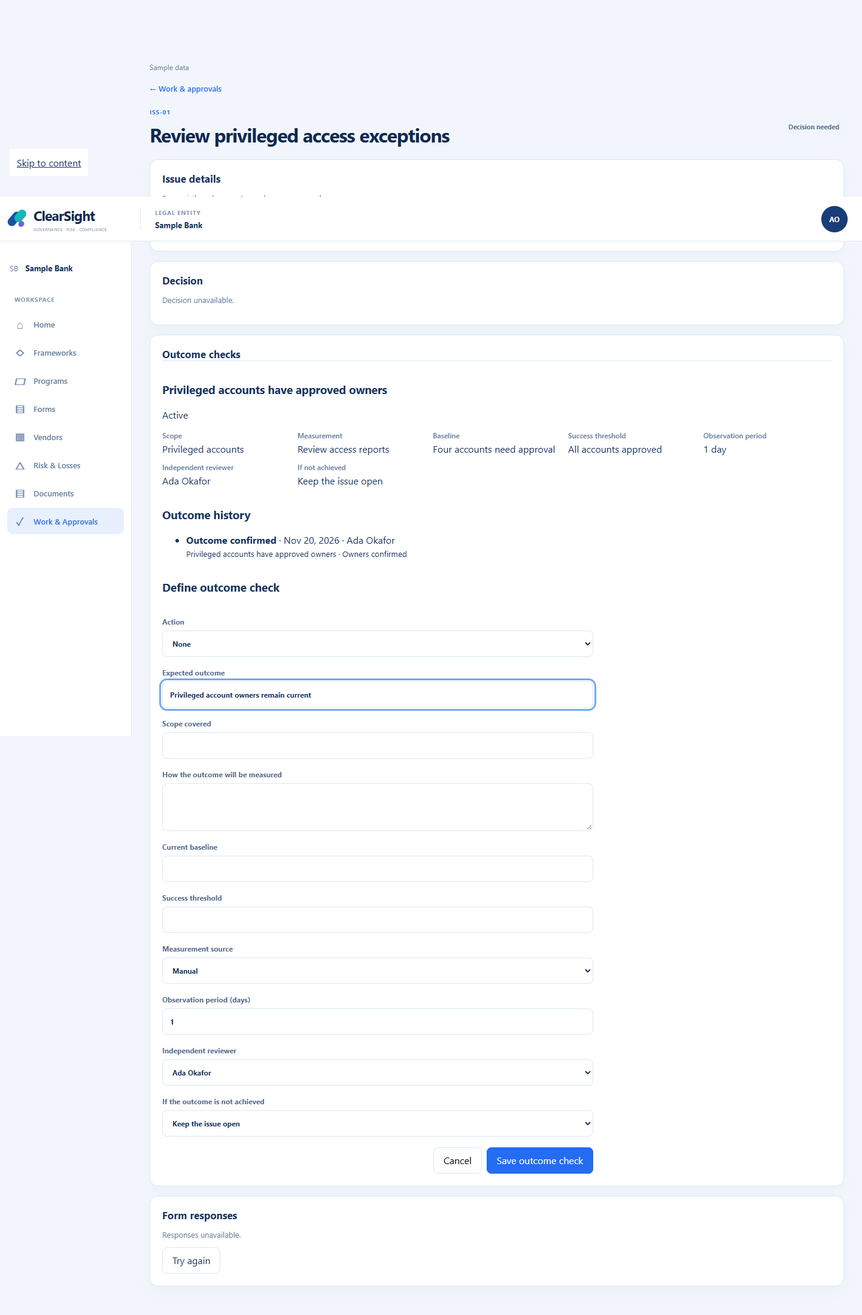
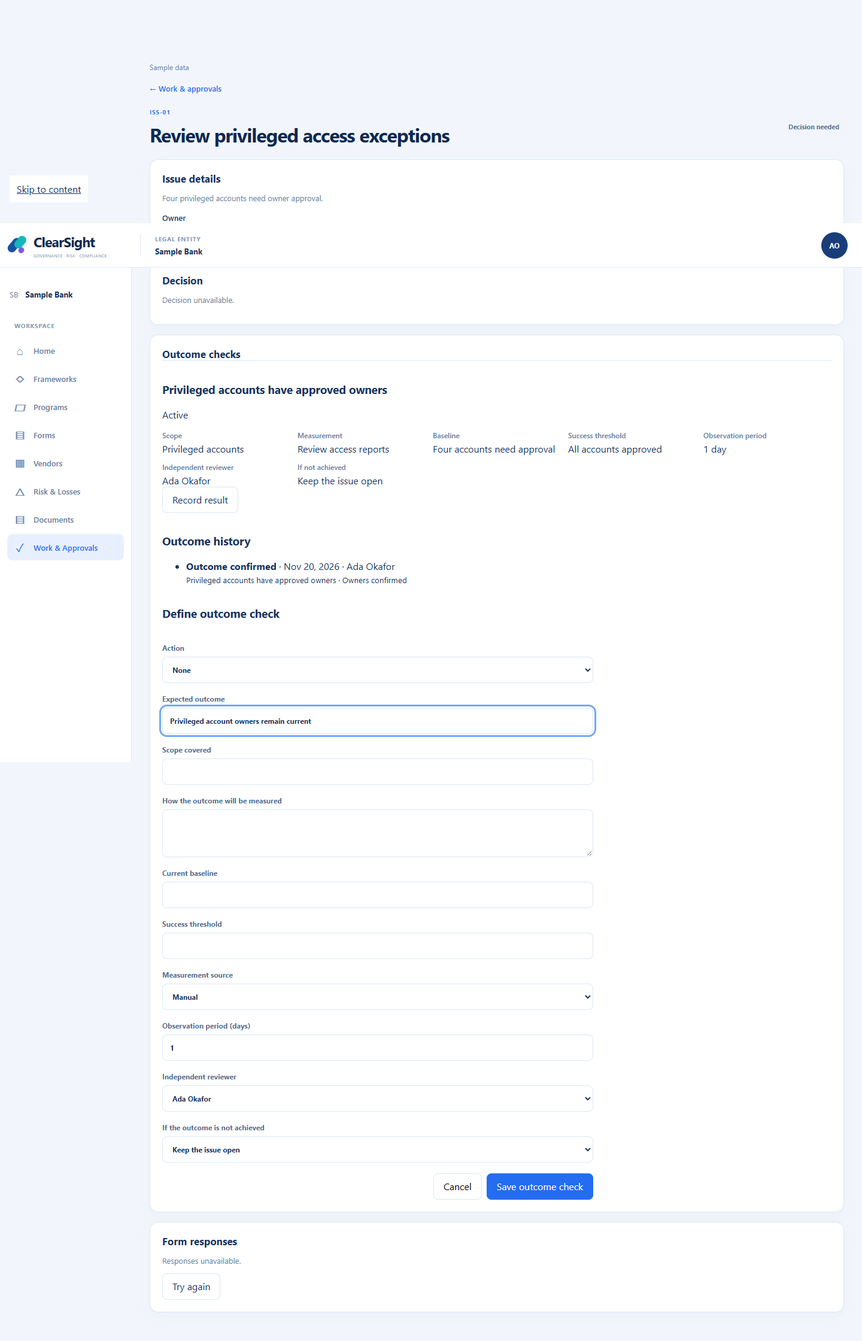
Record issue outcome results

diff --git a/web/src/v210/MatterOutcomes.tsx b/web/src/v210/MatterOutcomes.tsx
@@ -3,6 +3,7 @@ import { loadEvidenceSources } from "../api";
 import { defineMatterOutcomeCheck, loadMatterOperations, type MatterOperations } from "../matterOperationsApi";
 import { apiErrorKind } from "../http";
 import type { EvidenceSource, MatterAggregate, VerificationContract } from "../types";
+import { MatterOutcomeResult } from "./MatterOutcomeResult";
 import "./matter-outcomes.css";
 
 const failures = [{id:"BLOCK_CLOSE",label:"Keep the issue open"},{id:"REOPEN",label:"Reopen the issue"},{id:"CREATE_MATTER",label:"Create a follow-up issue"},{id:"ESCALATE",label:"Escalate"}];
@@ -33,7 +34,7 @@ export function MatterOutcomes({aggregate,onRefresh,onAccessRevoked}:{aggregate:
  function reviewIssue() { try { onRefresh(); } catch { setError("Issue unavailable. Try again."); } }
  const contracts=aggregate.verification_contracts;const results=aggregate.verification_results;
  if(aggregate.outcome_data_complete === false || !Array.isArray(contracts) || !Array.isArray(results) || contracts.some((value)=>!value?.id || !value.expected_outcome) || new Set(contracts.map((value)=>value.id)).size!==contracts.length || results.some((value)=>!value?.id || !contracts.some((contract)=>contract.id===value.contract_id)) || new Set(results.map((value)=>value.id)).size!==results.length) return <section className="v-panel v-matter-outcomes"><h2>Outcome checks</h2><p role="alert">Outcome checks unavailable.</p></section>;
- return <section className="v-panel v-matter-outcomes"><h2>Outcome checks</h2>{contracts.length===0?<p>No outcome checks recorded.</p>:contracts.map((contract)=><article key={contract.id}><h3>{contract.expected_outcome}</h3><p>{contract.status==="ACTIVE"?"Active":contract.status==="RETIRED"?"Ended":"Status unavailable"}</p><dl><div><dt>Scope</dt><dd>{text(contract.scope,"description","population")}</dd></div><div><dt>Measurement</dt><dd>{typeof contract.scope?.measurement_method === "string" && contract.scope.measurement_method.trim() ? contract.scope.measurement_method : "Not recorded"}</dd></div><div><dt>Baseline</dt><dd>{text(contract.baseline,"description","current_state","summary")}</dd></div><div><dt>Success threshold</dt><dd>{text(contract.threshold,"success_condition","description")}</dd></div><div><dt>Observation period</dt><dd>{period(contract.observation_period_minutes)}</dd></div><div><dt>Independent reviewer</dt><dd>{reviewerName("OUTCOME_CHECK",contract.id)}</dd></div>{contract.measurement_source_id && <div><dt>Measurement source</dt><dd>{sources.find((item)=>item.id===contract.measurement_source_id)?.name || "Source name unavailable"}</dd></div>}<div><dt>If not achieved</dt><dd>{failures.find((item)=>item.id===contract.failure_response)?.label || "Not recorded"}</dd></div></dl></article>)}
+ return <section className="v-panel v-matter-outcomes"><h2>Outcome checks</h2>{contracts.length===0?<p>No outcome checks recorded.</p>:contracts.map((contract)=><article key={contract.id}><h3>{contract.expected_outcome}</h3><p>{contract.status==="ACTIVE"?"Active":contract.status==="RETIRED"?"Ended":"Status unavailable"}</p><dl><div><dt>Scope</dt><dd>{text(contract.scope,"description","population")}</dd></div><div><dt>Measurement</dt><dd>{typeof contract.scope?.measurement_method === "string" && contract.scope.measurement_method.trim() ? contract.scope.measurement_method : "Not recorded"}</dd></div><div><dt>Baseline</dt><dd>{text(contract.baseline,"description","current_state","summary")}</dd></div><div><dt>Success threshold</dt><dd>{text(contract.threshold,"success_condition","description")}</dd></div><div><dt>Observation period</dt><dd>{period(contract.observation_period_minutes)}</dd></div><div><dt>Independent reviewer</dt><dd>{reviewerName("OUTCOME_CHECK",contract.id)}</dd></div>{contract.measurement_source_id && <div><dt>Measurement source</dt><dd>{sources.find((item)=>item.id===contract.measurement_source_id)?.name || "Source name unavailable"}</dd></div>}<div><dt>If not achieved</dt><dd>{failures.find((item)=>item.id===contract.failure_response)?.label || "Not recorded"}</dd></div></dl>{contract.status==="ACTIVE" && aggregate.scope?.principal_id && operations?.authority_available && operations.operations?.some((op)=>op.command==="matter.outcome.record" && op.subresource_id===contract.id && op.can_act===true) && <MatterOutcomeResult key={`${matter.tenant_id}:${matter.legal_entity_id}:${matter.id}:${aggregate.scope.principal_id}:${matter.version}:${contract.id}`} matter={matter} contract={contract} principalID={aggregate.scope.principal_id} existingResultIDs={results.map((entry)=>entry.id)} onRefresh={onRefresh} onAccessRevoked={()=>onAccessRevoked?.()} />}</article>)}
  {results.length>0 && <section><h3>Outcome history</h3><ul>{results.slice(0,limit).map((value)=><li key={value.id}><strong>{result(value.result)}</strong> · {recorded(value.observed_at)} · {reviewerName("OUTCOME_RESULT",value.id)}<small>{contracts.find((contract)=>contract.id===value.contract_id)?.expected_outcome}{value.rationale ? ` · ${value.rationale}` : ""}</small></li>)}</ul>{results.length>limit && <button type="button" onClick={()=>setLimit((value)=>value+20)}>Show more results</button>}</section>}
  {refreshFailed ? <p role="alert">Outcome check saved. Refresh the issue to see it.</p> : uncertain ? <><p role="alert">Outcome check status unknown. Review the issue before trying again.</p><button type="button" disabled={busy} onClick={reviewIssue}>Review issue</button>{error && <p role="alert">{error}</p>}</> : !open && candidates.length>0 ? <button type="button" onClick={()=>setOpen(true)}>Define outcome check</button> : null}
  {open && !uncertain && !refreshFailed && <form className="v-intake" onSubmit={(event)=>void submit(event)}><h3>Define outcome check</h3><label>Action<select value={action} onChange={(e)=>setAction(e.target.value)}><option value="">None</option>{(aggregate.actions??[]).map((item)=><option key={item.id} value={item.id}>{item.title}</option>)}</select></label><label>Expected outcome<input required value={expected} onChange={(e)=>setExpected(e.target.value)}/></label><label>Scope covered<input value={scope} onChange={(e)=>setScope(e.target.value)}/></label><label>How the outcome will be measured<textarea value={method} onChange={(e)=>setMethod(e.target.value)}/></label><label>Current baseline<input value={baseline} onChange={(e)=>setBaseline(e.target.value)}/></label><label>Success threshold<input value={threshold} onChange={(e)=>setThreshold(e.target.value)}/></label><label>Measurement source<select value={source} onChange={(e)=>setSource(e.target.value)}><option value="">Manual</option>{activeSources.map((item)=><option key={item.id} value={item.id}>{item.name}</option>)}</select></label>{sourceError && <p>Measurement sources unavailable. Manual measurement remains available.</p>}<label>Observation period (days)<input type="number" min="0" max="365" step="1" required value={days} onChange={(e)=>setDays(e.target.value)}/></label><label>Independent reviewer<select required value={reviewer} onChange={(e)=>setReviewer(e.target.value)}><option value="">Select reviewer</option>{candidates.map((item)=><option key={item.id} value={item.id}>{item.display_name}</option>)}</select></label><label>If the outcome is not achieved<select required value={failure} onChange={(e)=>setFailure(e.target.value)}><option value="">Select response</option>{failures.map((item)=><option key={item.id} value={item.id}>{item.label}</option>)}</select></label>{error && <p role="alert">{error}</p>}<div className="v-intake-actions"><button type="button" disabled={busy} onClick={()=>setOpen(false)}>Cancel</button><button className="v-primary" disabled={busy}>{busy?"Saving…":"Save outcome check"}</button></div></form>}

diff --git a/web/src/v210/MatterOutcomes.test.tsx b/web/src/v210/MatterOutcomes.test.tsx
@@ -3,7 +3,7 @@ import { beforeEach,expect,it,vi } from "vitest";
 import { ApiError } from "../http";
 import { MatterOutcomes } from "./MatterOutcomes";
 import type { MatterAggregate } from "../types";
-const api=vi.hoisted(()=>({loadEvidenceSources:vi.fn(),loadMatter:vi.fn()})); const ops=vi.hoisted(()=>({loadMatterOperations:vi.fn(),defineMatterOutcomeCheck:vi.fn()}));vi.mock("../api",()=>api);vi.mock("../matterOperationsApi",()=>ops);
+const api=vi.hoisted(()=>({loadEvidenceSources:vi.fn(),loadMatter:vi.fn()})); const ops=vi.hoisted(()=>({loadMatterOperations:vi.fn(),defineMatterOutcomeCheck:vi.fn(),recordMatterOutcomeResult:vi.fn()}));vi.mock("../api",()=>api);vi.mock("../matterOperationsApi",()=>ops);
 const aggregate={scope:{tenant_id:"bank",legal_entity_id:"entity",principal_id:"actor",record_tenant_id:"bank",record_legal_entity_id:"entity"},matter:{id:"m1",tenant_id:"bank",legal_entity_id:"entity",version:4,title:"Restore service"},actions:[{id:"a1",title:"Restore posting"}],verification_contracts:[{id:"c1",expected_outcome:"Posting remains available",authority_principal_id:"old-reviewer",status:"ACTIVE",observation_period_minutes:1440,failure_response:"BLOCK_CLOSE",scope:{description:"Retail accounts",measurement_method:"Review daily reports"},baseline:{description:"Posting unavailable"},threshold:{success_condition:"99.9% successful"}}],verification_results:[{id:"r1",contract_id:"c1",result:"PASS",reviewer_principal_id:"old-reviewer",observed_at:"2026-11-20T10:00:00Z",rationale:"Confirmed"}]} as unknown as MatterAggregate;
 const route={matter_id:"m1",matter_version:4,authority_available:true,operations:[{command:"matter.outcome.define",can_act:true,candidates:[{id:"reviewer",display_name:"Ada Okafor"}]}],responsible_parties:[{scope:"OUTCOME_CHECK",subresource_id:"c1",display_name:"Original reviewer"},{scope:"OUTCOME_RESULT",subresource_id:"r1",display_name:"Original reviewer"}]};
 beforeEach(()=>{vi.resetAllMocks();ops.loadMatterOperations.mockResolvedValue(route);api.loadEvidenceSources.mockResolvedValue([{id:"s1",tenant_id:"bank",legal_entity_id:"entity",name:"Daily report",status:"ACTIVE",version:2},{id:"other",tenant_id:"bank",legal_entity_id:"different",name:"Other report",status:"ACTIVE",version:1}]);});
@@ -18,3 +18,7 @@ it("requires explicit issue review after an uncertain definition without retryin
 it("clears the issue when the definition command loses access",async()=>{ops.defineMatterOutcomeCheck.mockRejectedValue(new ApiError(403,"Denied"));const revoked=vi.fn();render(<MatterOutcomes aggregate={aggregate} onRefresh={vi.fn()} onAccessRevoked={revoked}/>);fireEvent.click(await screen.findByRole("button",{name:"Define outcome check"}));fireEvent.change(screen.getByLabelText("Expected outcome"),{target:{value:"Service available"}});fireEvent.change(screen.getByLabelText("Independent reviewer"),{target:{value:"reviewer"}});fireEvent.change(screen.getByLabelText("If the outcome is not achieved"),{target:{value:"BLOCK_CLOSE"}});fireEvent.click(screen.getByRole("button",{name:"Save outcome check"}));await waitFor(()=>expect(revoked).toHaveBeenCalled());expect(screen.queryByText(/status unknown/)).toBeNull();});
 it("shows safe legacy scalar terms without exposing identifiers",()=>{const contract={...aggregate.verification_contracts[0]!,baseline:{unresolved_count:4,principal_id:"secret"},scope:{accounts:12},threshold:{unresolved_count:0}};render(<MatterOutcomes aggregate={{...aggregate,verification_contracts:[contract]}} onRefresh={vi.fn()}/>);expect(screen.getByText("Unresolved count: 4")).toBeTruthy();expect(screen.getByText("Accounts: 12")).toBeTruthy();expect(screen.getByText("Unresolved count: 0")).toBeTruthy();expect(screen.queryByText("secret")).toBeNull();});
 it("clears the issue when its operation read loses access",async()=>{ops.loadMatterOperations.mockRejectedValue(new ApiError(403,"Denied"));const revoked=vi.fn();render(<MatterOutcomes aggregate={aggregate} onRefresh={vi.fn()} onAccessRevoked={revoked}/>);await waitFor(()=>expect(revoked).toHaveBeenCalled());});
+
+it("offers result recording only for the authorized current outcome check",async()=>{ops.loadMatterOperations.mockResolvedValue({...route,operations:[...route.operations,{command:'matter.outcome.record',subresource_id:'c1',can_act:true},{command:'matter.outcome.record',subresource_id:'other',can_act:true}]});render(<MatterOutcomes aggregate={aggregate} onRefresh={vi.fn()}/>);expect(await screen.findByRole('button',{name:'Record result'})).toBeTruthy();expect(screen.getAllByRole('button',{name:'Record result'})).toHaveLength(1);});
+
+it("discards a result receipt after the issue version changes",async()=>{let resolve!:(value:unknown)=>void;ops.recordMatterOutcomeResult.mockImplementation(()=>new Promise((done)=>{resolve=done}));ops.loadMatterOperations.mockResolvedValue({...route,operations:[{command:"matter.outcome.record",subresource_id:"c1",can_act:true}]});const refresh=vi.fn();const view=render(<MatterOutcomes aggregate={aggregate} onRefresh={refresh}/>);fireEvent.click(await screen.findByRole("button",{name:"Record result"}));fireEvent.change(screen.getByLabelText("Outcome"),{target:{value:"PASS"}});fireEvent.change(screen.getByLabelText("Review notes"),{target:{value:"Reviewed"}});fireEvent.click(screen.getByRole("button",{name:"Save result"}));view.rerender(<MatterOutcomes aggregate={{...aggregate,matter:{...aggregate.matter,version:5}}} onRefresh={refresh}/>);resolve({matter:{...aggregate.matter,version:5},verification_results:[{id:"r2",tenant_id:"bank",matter_id:"m1",contract_id:"c1",result:"PASS",rationale:"Reviewed",reviewer_principal_id:"actor"}]});await Promise.resolve();expect(refresh).not.toHaveBeenCalled();});

diff --git a/web/src/v210/MatterOutcomeResult.test.tsx b/web/src/v210/MatterOutcomeResult.test.tsx
@@ -1,0 +1,15 @@
+import { fireEvent, render, screen, waitFor } from '@testing-library/react';
+import { expect, it, vi } from 'vitest';
+import { ApiError } from '../http';
+import { MatterOutcomeResult } from './MatterOutcomeResult';
+const api=vi.hoisted(()=>({recordMatterOutcomeResult:vi.fn()}));
+vi.mock('../matterOperationsApi',()=>api);
+const props={matter:{id:'m1',tenant_id:'bank',legal_entity_id:'entity',version:4},contract:{id:'c1',expected_outcome:'Service restored',status:'ACTIVE',failure_response:'BLOCK_CLOSE'},principalID:'reviewer',existingResultIDs:['r1'],onRefresh:vi.fn(),onAccessRevoked:vi.fn()};
+it('records a reviewed result and validates the returned issue and result',async()=>{api.recordMatterOutcomeResult.mockResolvedValue({matter:{...props.matter,version:5},verification_results:[{id:'r2',tenant_id:'bank',matter_id:'m1',contract_id:'c1',result:'PASS',rationale:'Checked daily report',reviewer_principal_id:'reviewer'}]});render(<MatterOutcomeResult {...props} />);fireEvent.click(screen.getByRole('button',{name:'Record result'}));fireEvent.change(screen.getByLabelText('Outcome'),{target:{value:'PASS'}});fireEvent.change(screen.getByLabelText('Review notes'),{target:{value:'Checked daily report'}});fireEvent.click(screen.getByRole('button',{name:'Save result'}));await waitFor(()=>expect(props.onRefresh).toHaveBeenCalled());expect(api.recordMatterOutcomeResult).toHaveBeenCalledWith('m1',4,{contractID:'c1',result:'PASS',rationale:'Checked daily report'});});
+it('does not report success for an unrelated or uncertain receipt',async()=>{const refresh=vi.fn();api.recordMatterOutcomeResult.mockResolvedValue({matter:{...props.matter,version:5},verification_results:[{id:'r2',tenant_id:'bank',matter_id:'m1',contract_id:'other',result:'PASS',rationale:'Checked daily report',reviewer_principal_id:'reviewer'}]});render(<MatterOutcomeResult {...props} onRefresh={refresh}/>);fireEvent.click(screen.getByRole('button',{name:'Record result'}));fireEvent.change(screen.getByLabelText('Outcome'),{target:{value:'PASS'}});fireEvent.change(screen.getByLabelText('Review notes'),{target:{value:'Checked daily report'}});fireEvent.click(screen.getByRole('button',{name:'Save result'}));expect(await screen.findByText(/Result status unknown/)).toBeTruthy();expect(refresh).not.toHaveBeenCalled();expect(screen.queryByRole('button',{name:'Save result'})).toBeNull();});
+it('removes issue access when recording is denied',async()=>{const revoked=vi.fn();api.recordMatterOutcomeResult.mockRejectedValue(new ApiError(403,'Denied'));render(<MatterOutcomeResult {...props} onAccessRevoked={revoked}/>);fireEvent.click(screen.getByRole('button',{name:'Record result'}));fireEvent.change(screen.getByLabelText('Outcome'),{target:{value:'PASS'}});fireEvent.change(screen.getByLabelText('Review notes'),{target:{value:'Checked daily report'}});fireEvent.click(screen.getByRole('button',{name:'Save result'}));await waitFor(()=>expect(revoked).toHaveBeenCalled());});
+
+it('shows the stored failure response before recording a failed result',()=>{render(<MatterOutcomeResult {...props}/>);fireEvent.click(screen.getByRole('button',{name:'Record result'}));fireEvent.change(screen.getByLabelText('Outcome'),{target:{value:'FAIL'}});expect(screen.getByText('The issue cannot close until the outcome is achieved.')).toBeTruthy();});
+it('ignores late receipts after the issue is no longer displayed',async()=>{let resolve!:(value:unknown)=>void;api.recordMatterOutcomeResult.mockImplementation(()=>new Promise((done)=>{resolve=done}));const refresh=vi.fn();const view=render(<MatterOutcomeResult {...props} onRefresh={refresh}/>);fireEvent.click(screen.getByRole('button',{name:'Record result'}));fireEvent.change(screen.getByLabelText('Outcome'),{target:{value:'PASS'}});fireEvent.change(screen.getByLabelText('Review notes'),{target:{value:'Checked daily report'}});fireEvent.click(screen.getByRole('button',{name:'Save result'}));view.unmount();resolve({matter:{...props.matter,version:5},verification_results:[{id:'r2',tenant_id:'bank',matter_id:'m1',contract_id:'c1',result:'PASS',rationale:'Checked daily report',reviewer_principal_id:'reviewer'}]});await Promise.resolve();expect(refresh).not.toHaveBeenCalled();});
+
+it('blocks a failed result when the failure consequence is unknown',()=>{api.recordMatterOutcomeResult.mockClear();render(<MatterOutcomeResult {...props} contract={{...props.contract,failure_response:'UNKNOWN'}}/>);fireEvent.click(screen.getByRole('button',{name:'Record result'}));fireEvent.change(screen.getByLabelText('Outcome'),{target:{value:'FAIL'}});fireEvent.change(screen.getByLabelText('Review notes'),{target:{value:'Failed'}});expect(screen.getByText('Failure response unavailable.')).toBeTruthy();expect((screen.getByRole('button',{name:'Save result'}) as HTMLButtonElement).disabled).toBe(true);expect(api.recordMatterOutcomeResult).not.toHaveBeenCalled();});

diff --git a/web/src/v210/MatterOutcomeResult.tsx b/web/src/v210/MatterOutcomeResult.tsx
@@ -1,0 +1,26 @@
+import { useEffect, useRef, useState, type FormEvent } from 'react';
+import { recordMatterOutcomeResult } from '../matterOperationsApi';
+import { apiErrorKind } from '../http';
+
+type Issue = { id:string; tenant_id:string; legal_entity_id?:string; version:number };
+type Check = { id:string; expected_outcome:string; status:string; failure_response?:string };
+type Props = { matter:Issue; contract:Check; principalID:string; existingResultIDs:string[]; onRefresh:()=>void; onAccessRevoked:()=>void };
+const consequences:Record<string,string> = { BLOCK_CLOSE:'The issue cannot close until the outcome is achieved.', REOPEN:'The issue will reopen.', CREATE_MATTER:'A follow-up issue will be created.', ESCALATE:'The issue will be escalated.' };
+export function MatterOutcomeResult({matter,contract,principalID,existingResultIDs,onRefresh,onAccessRevoked}:Props) {
+ const [open,setOpen]=useState(false),[outcome,setOutcome]=useState(''),[notes,setNotes]=useState(''),[busy,setBusy]=useState(false),[unknown,setUnknown]=useState(false),[refreshFailed,setRefreshFailed]=useState(false);
+ const locked=useRef(false),mounted=useRef(true);
+ useEffect(()=>{mounted.current=true;return ()=>{mounted.current=false}},[]);
+ async function submit(event:FormEvent) {
+  event.preventDefault();if(locked.current||busy||!principalID||!matter.legal_entity_id||contract.status!=='ACTIVE'||!['PASS','FAIL','INCONCLUSIVE'].includes(outcome)||!notes.trim()||(outcome==='FAIL' && !Object.hasOwn(consequences,contract.failure_response ?? '')))return;
+  locked.current=true;setBusy(true);
+  try {const receipt=await recordMatterOutcomeResult(matter.id,matter.version,{contractID:contract.id,result:outcome,rationale:notes.trim()});if(!mounted.current)return;
+   const added=Array.isArray(receipt.verification_results)?receipt.verification_results.filter((entry)=>!existingResultIDs.includes(entry.id)):[];const value=added[0];
+   if(receipt.matter?.id!==matter.id||receipt.matter.tenant_id!==matter.tenant_id||receipt.matter.legal_entity_id!==matter.legal_entity_id||!Number.isSafeInteger(receipt.matter.version)||receipt.matter.version<=matter.version||receipt.matter.version>matter.version+3||added.length!==1||!value?.id||value.tenant_id!==matter.tenant_id||value.matter_id!==matter.id||value.contract_id!==contract.id||value.result!==outcome||value.rationale!==notes.trim()||value.reviewer_principal_id!==principalID)throw new Error('Unconfirmed');
+   try {onRefresh();setOpen(false)} catch {setRefreshFailed(true)}
+  } catch (error) {if(!mounted.current)return;if(['unauthorized','forbidden','not_found'].includes(apiErrorKind(error)))onAccessRevoked();else setUnknown(true)} finally {if(mounted.current)setBusy(false)}
+ }
+ if(refreshFailed)return <p role="alert">Result saved. Refresh the issue to see it.</p>;
+ if(unknown)return <><p role="alert">Result status unknown. Review the issue before trying again.</p><button type="button" onClick={onRefresh}>Review issue</button></>;
+ if(!open)return <button type="button" onClick={()=>setOpen(true)}>Record result</button>;
+ return <form className="v-intake" onSubmit={(event)=>void submit(event)}><h4>Record result</h4><label>Outcome<select value={outcome} onChange={(event)=>setOutcome(event.target.value)} required><option value="">Select outcome</option><option value="PASS">Outcome achieved</option><option value="FAIL">Outcome not achieved</option><option value="INCONCLUSIVE">More review needed</option></select></label>{outcome==='FAIL' && <p>{consequences[contract.failure_response ?? ""] ?? 'Failure response unavailable.'}</p>}<label>Review notes<textarea value={notes} onChange={(event)=>setNotes(event.target.value)} required /></label><div className="v-intake-actions"><button type="button" disabled={busy} onClick={()=>setOpen(false)}>Cancel</button><button className="v-primary" disabled={busy || (outcome==='FAIL' && !Object.hasOwn(consequences,contract.failure_response ?? ''))}>{busy?'Saving…':'Save result'}</button></div></form>;
+}

diff --git a/web/src/types.ts b/web/src/types.ts
@@ -138,7 +138,7 @@ export type Matter = { id: string; tenant_id: string; legal_entity_id?: string; 
 export type MatterAction = { id: string; title: string; description: string; owner_principal_id?: string; required_responsibility?: string; status: string; due_at?: string; implemented_at?: string; created_at?: string; updated_at?: string; version?: number; };
 export type MatterDecision = { id: string; type: string; status: string; selected_option?: string; rationale: string; decided_at?: string; };
 export type VerificationContract = { id: string; tenant_id?: string; matter_id?: string; supersedes_contract_id?: string; action_id?: string; expected_outcome: string; baseline?: Record<string, unknown>; scope?: Record<string, unknown>; measurement_source_id?: string; threshold?: Record<string, unknown>; observation_period_minutes: number; authority_principal_id?: string; failure_response?: string; status: string; version?: number; };
-export type VerificationResult = { id: string; contract_id: string; result: string; rationale: string; reviewer_principal_id?: string; observations?: Record<string, unknown>; evidence_references?: unknown[]; observed_at: string; };
+export type VerificationResult = { id: string; tenant_id?: string; matter_id?: string; contract_id: string; result: string; rationale: string; reviewer_principal_id?: string; observations?: Record<string, unknown>; evidence_references?: unknown[]; observed_at: string; };
 export type ResponsePackage = { id: string; purpose: string; audience: string; status: string; transmitted_at?: string; acknowledged_at?: string; };
 export type ResponseHistoryItem = { status: string; occurred_at: string; actor_label: string; matter_version: number };
 export type ResponseHistoryPage = { items: ResponseHistoryItem[]; has_more: boolean; generated_at: string };

diff --git a/web/src/v210/matter-outcomes.css b/web/src/v210/matter-outcomes.css
@@ -4,3 +4,5 @@
 .v-matter-outcomes [role="alert"] { color: var(--v-color-danger-text); }
 .v-matter-outcomes textarea { width: 100%; min-height: 80px; padding: 10px 12px; border: 1px solid var(--v-field-border); border-radius: var(--v-field-radius); background: var(--v-field-background); color: var(--v-field-text); }
 .v-matter-outcomes li small { display: block; margin-top: 4px; }
+.v-matter-outcomes article > button { min-height: var(--v-button-height); padding: 0 16px; border: 1px solid var(--v-button-secondary-border); border-radius: var(--v-button-radius); background: var(--v-button-secondary-background); color: var(--v-button-secondary-text); }
+.v-matter-outcomes .v-intake-actions button:disabled { opacity: .55; cursor: not-allowed; }

diff --git a/web/src/matterOperationsApi.ts b/web/src/matterOperationsApi.ts
@@ -198,3 +198,7 @@ export function retireMatterLink(matterID: string, linkID: string, expectedVersi
     rationale,
   });
 }
+
+export function recordMatterOutcomeResult(matterID: string, expectedVersion: number, input: { contractID:string; result:string; rationale:string }): Promise<MatterAggregate> {
+  return continuityCommand<MatterAggregate>(`/api/v1/matters/${encodeURIComponent(matterID)}/verification-results`, { expected_version: expectedVersion, contract_id: input.contractID, result: input.result, rationale: input.rationale, observations: {}, evidence_references: [] });
+}

diff --git a/docs/design/2026-11-22-v215-matter-outcomes.md b/docs/design/2026-11-22-v215-matter-outcomes.md
@@ -6,4 +6,8 @@ Definition is offered only for a matching issue version and authorized operation
 
 Synthetic screenshots in `docs/evidence/2026-11-22-v215-matter-outcomes/` show read, definition and uncertain-result states at 1440, 768 and 390 pixels. An initial mobile inspection identified history text running together; the supporting line was separated and the captures regenerated. Full-page captures include the fixed shell at the browser scroll position and are not production authorization evidence. All widths passed the script's horizontal overflow check. The existing `docs/evidence/2026-11-21-matter-work/` captures provide the preceding issue-work baseline.
 
-This is a partial workflow. Replacing or ending a check and recording a result are not yet implemented. The previous MatterOutcomePanel suite remains in place pending equivalent coverage. Existing aggregate reads load the full history; the client progressively displays it, but this is not server pagination. No production end-to-end or whole-screen acceptance is claimed.
+This is a partial workflow. Replacing or ending a check is not yet implemented. The previous MatterOutcomePanel suite remains in place pending equivalent coverage. Existing aggregate reads load the full history; the client progressively displays it, but this is not server pagination. No production end-to-end or whole-screen acceptance is claimed.
+
+The authorized reviewer may record a result for an active check. A failed result states the recorded failure response before submission; the existing backend applies any resulting issue changes atomically. A returned result must match the issue, check, actor and review notes. If the result is uncertain, the reviewer must inspect the issue before another attempt. The response has no idempotency receipt, so inspection cannot prove that a particular request committed. Result recording still needs live end-to-end and accessibility review.
+
+The retained outcome evidence script also captures an unavailable failure consequence at each width and checks that Save result is disabled. The disabled style was adjusted after visual inspection.
